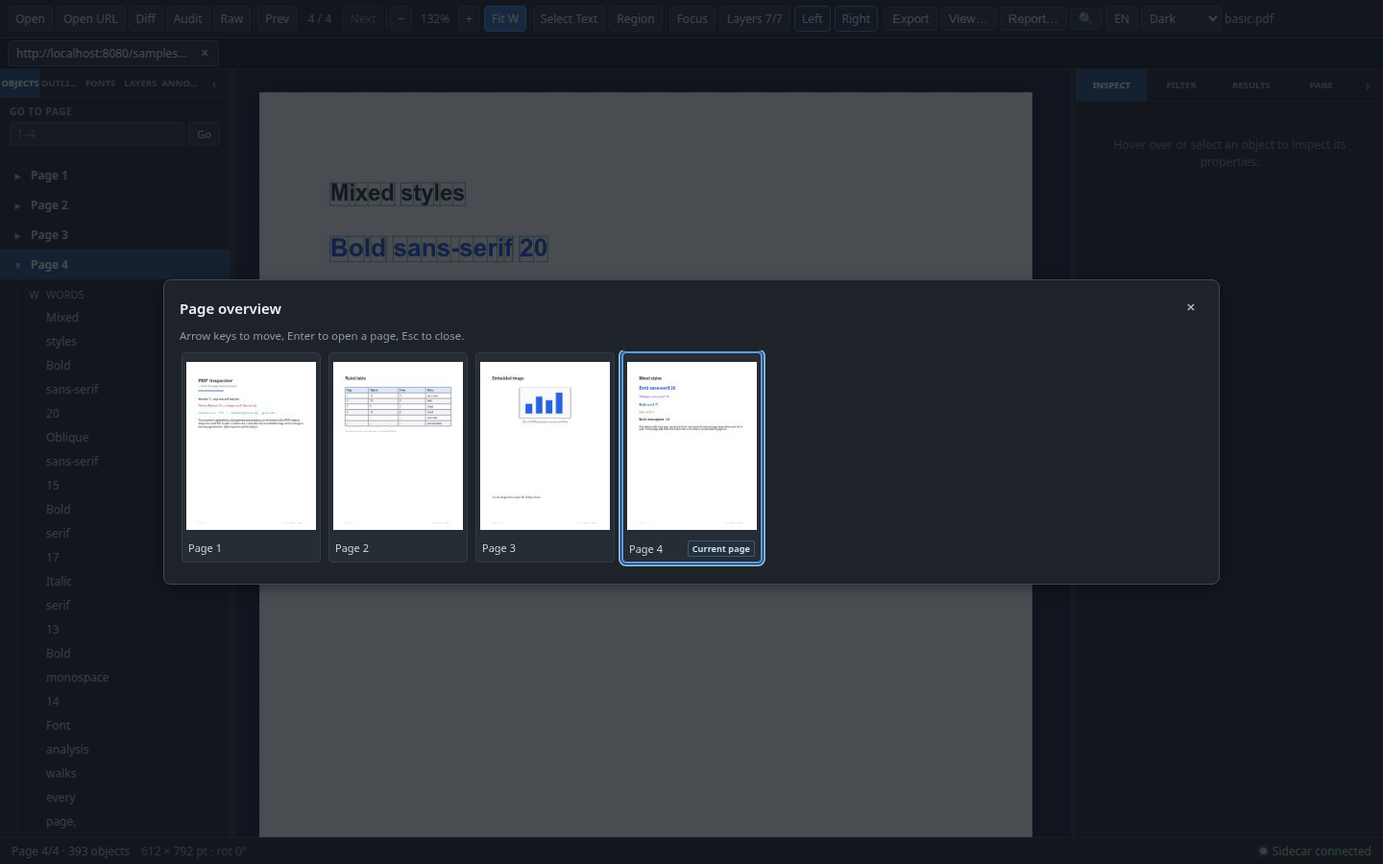
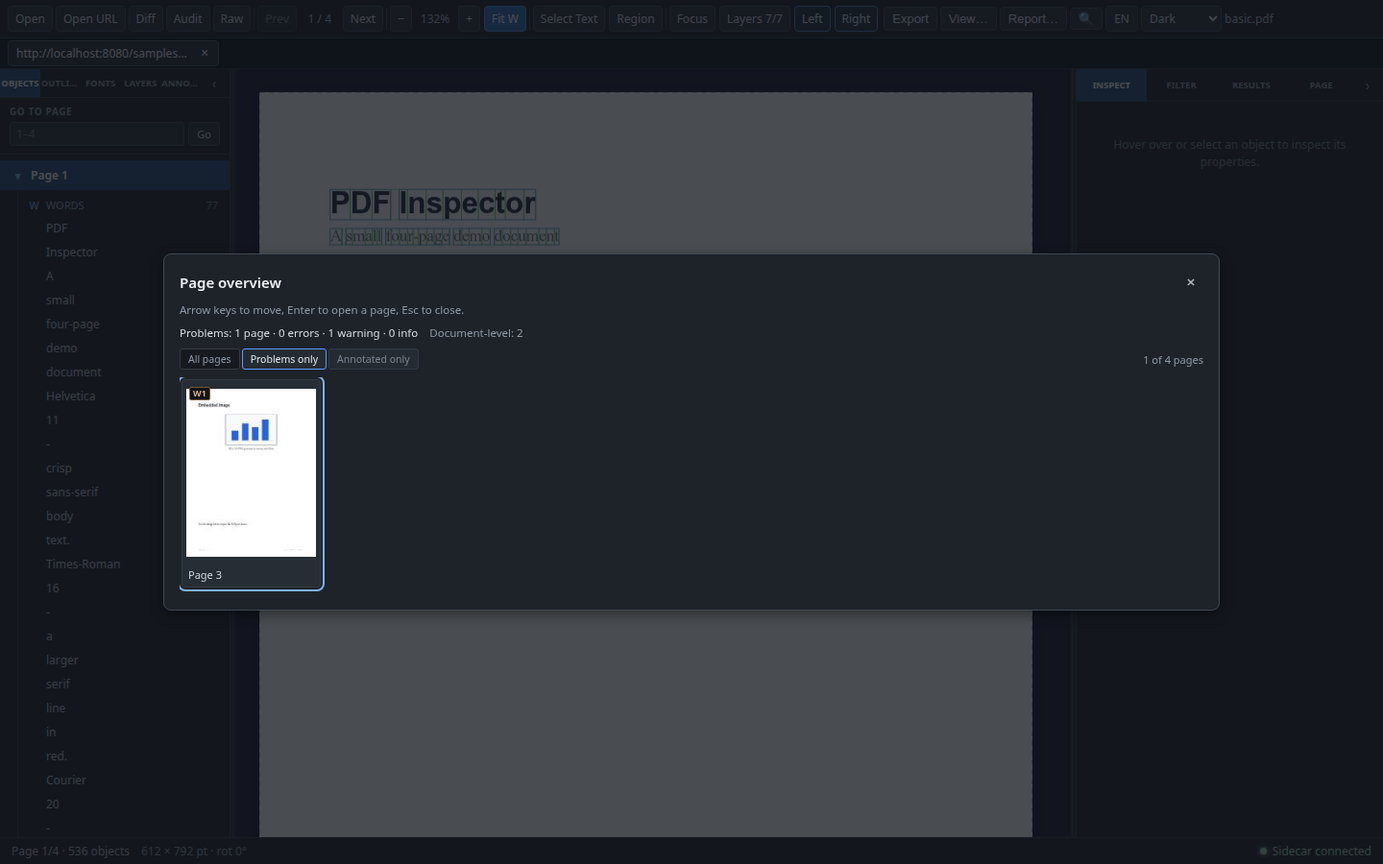
docs(viewer): document page markers and problem navigation
Document the page map badges, page/document summaries, All/Problems/Annotated filters, Pages with problems command, data sources and file matching, no-auto-analysis behavior and read-only boundaries in both README languages and the large-document notes, with a real Problems-only screenshot.

diff --git a/README.md b/README.md
@@ -48,7 +48,7 @@ PDF Inspector is a developer-focused PDF structure viewer. It overlays coordinat
 | ![Desktop document tabs: two URL-opened tabs, switched back to basic.pdf with toolbar 1 / 4](docs/images/large-doc-tabs.png) | **Desktop document tabs**<br>The desktop app keeps multiple document tabs and restores page, zoom, overlays, and panel tabs when switching. Web tabs activate a server-side `documentId` instead. |
 | ![Web document tabs: basic.pdf and large.pdf tabs, active large.pdf showing 1 / 120](docs/images/web-tabs.png) | **Web document tabs**<br>Web and desktop both show the document tab bar. Switching activates by `documentId` and restores the view snapshot; inactive documents remain readable at `/doc/:id`, and closing a tab removes only that document's temporary copy. |
 | ![Recent documents dialog: grouped Web document rows with Open and Remove, the restore-last-session toggle, Clear recent, and Close](docs/images/session-recent.png) | **Session restore and recent documents**<br>The empty state reopens a recent document or restores the last session, and `File: Recent documents…` lists local, URL, and Web documents grouped by kind. Only locators and view snapshots are stored under `pdf-inspector:session:v1` / `pdf-inspector:recent:v1`; PDF content and analysis results never are. |
-| ![Page overview: a thumbnail grid of the 4-page basic.pdf with page 4 highlighted and centered](docs/images/page-overview.png) | **Page overview**<br>Click the toolbar page counter (`1 / 4`), press `P`, or run `Navigate: Page overview…` to open a modal grid of page thumbnails. The current page is highlighted and auto-centered; click a card or press `Enter` to jump and close, while `Esc`, the backdrop, and the close button cancel. Thumbnails render lazily (at most 2 at a time, 60 cached per document); cards release their image when scrolled well outside the viewport and re-request it on return, so a 1000-page document opens immediately and does not retain every visited page. |
+| ![Page overview: the Problems only filter selected, one Page 3 card with a W1 warning badge, and the summary Problems: 1 page · 0 errors · 1 warning · 0 info, Document-level: 2, 1 of 4 pages](docs/images/page-overview.png) | **Page overview**<br>Click the toolbar page counter (`1 / 4`), press `P`, or run `Navigate: Page overview…` to open a modal grid of page thumbnails. The current page is highlighted and auto-centered; click a card or press `Enter` to jump and close, while `Esc`, the backdrop, and the close button cancel. Thumbnails render lazily (at most 2 at a time, 60 cached per document); cards release their image when scrolled well outside the viewport and re-request it on return, so a 1000-page document opens immediately and does not retain every visited page. When the current file already has an audit report and/or a whole-document annotation index, each card also shows compact markers (`E`/`W`/`I` audit findings, `A` annotations, `!` link/form issues), the header summarizes them, and `All pages` / `Problems only` / `Annotated only` filter the grid; `Navigate: Pages with problems…` opens the same dialog on `Problems only`. The overview never starts an analysis, only shows analyses that belong to the open file, and is read-only. |
 
 *Screenshots come from the Web build and a real Electron desktop build. Page list / Search 2.0 / command palette, annotation index/export, themes, export dialogs, Chinese UI, page overview, Diff/Audit/Raw, Audit Resources, Audit Structure, and session restore/recent documents are 1440×900. Desktop tabs were captured from Electron + `xvfb` through CDP at a 1440×900 viewport. See [docs/export.md](docs/export.md), [docs/themes-i18n.md](docs/themes-i18n.md), [docs/search.md](docs/search.md), [docs/large-docs.md](docs/large-docs.md), [docs/annotations.md](docs/annotations.md), and [docs/session.md](docs/session.md).*
 
@@ -68,7 +68,8 @@ PDF Inspector is a developer-focused PDF structure viewer. It overlays coordinat
 - The `Outline` tab reads PDF bookmarks and jumps to a page when an entry is clicked.
 - Current-page display, previous/next navigation, and a live zoom indicator.
 - **Page overview:** click the toolbar page counter (`1 / 4`), press `P`, or run `Navigate: Page overview…` to open a modal thumbnail grid. The current page is highlighted and auto-centered; clicking a card or pressing `Enter` jumps there and closes the dialog, `Esc` / backdrop / the close button cancel, arrow keys move focus (up/down by the grid's column count), `Home` / `End` jump to the first/last card, `Tab` stays inside the dialog, and focus returns to the opener on close. While it is open, the background `T` / `R` / `F` / `Esc` / `Ctrl+F` shortcuts stay inactive; `P` still toggles it, and `Ctrl/Cmd+P` is left to the browser.
-- **Lazy page thumbnails:** the renderer draws each page with PDF.js into an offscreen canvas (160×220 CSS `contain`, device pixel ratio capped at 2, JPEG quality 0.82), at most two renders at a time, with a per-document LRU of 60 images and a fresh cache per document. Only cards near the viewport request an image, plus a seed around the current page, so a 1000-page document shows thumbnails immediately without pre-rendering it: 1000 cards are present, about 27 images load after opening and about 57 after scrolling to page ~170. The overview is read-only — no overlay boxes, annotations, or audit markers, nothing is persisted, no sidecar page extraction, and the PDF is never modified. A failed thumbnail shows a placeholder and the card still navigates.
+- **Lazy page thumbnails:** the renderer draws each page with PDF.js into an offscreen canvas (160×220 CSS `contain`, device pixel ratio capped at 2, JPEG quality 0.82), at most two renders at a time, with a per-document LRU of 60 images and a fresh cache per document. Only cards near the viewport request an image, plus a seed around the current page, so a 1000-page document shows thumbnails immediately without pre-rendering it: 1000 cards are present, about 27 images load after opening and about 57 after scrolling to page ~170. The overview is read-only — no object or annotation box is drawn over a thumbnail, no finding is edited or waived from a card, nothing is persisted, no sidecar page extraction, and the PDF is never modified. A failed thumbnail shows a placeholder and the card still navigates.
+- **Page markers and problem navigation:** when the current file already has an audit report and/or a whole-document annotation index, the overview also works as a document map. Each card gets compact badges — `E1` / `W1` / `I1` for audit errors / warnings / info, `A3` for annotations, `!1` for unresolved or unsafe link and form issues. Each badge keeps a `title` and is hidden from assistive technology (`aria-hidden`), while the card's accessible name carries the page label plus every non-zero count, so a marker is never conveyed by colour alone. The header summarizes them (`Problems: 1 page · 0 errors · 1 warning · 0 info`, `Document-level: 2`, `Annotations: N pages · N marks · N issues`), and `All pages` / `Problems only` / `Annotated only` filter the grid; `Navigate: Pages with problems…` opens it already on `Problems only` (and is disabled while no page has a problem), while `P` and the page counter still open every page. A filter with no data is disabled, an empty result says so, and findings without a page stay in `Document-level` instead of landing on page 1. Markers are a view of analyses that already ran: the overview never starts an audit or an index, it shows `Run Audit to mark pages.` when there is no report, it drops a report or index produced for another file, and the badges and summary update in place when an analysis finishes, without closing the dialog.
 
 ### Workspace and layout
 
@@ -122,7 +123,7 @@ PDF Inspector is a developer-focused PDF structure viewer. It overlays coordinat
 ### Command palette
 
 - `Ctrl/Cmd+K` opens a command palette grouped by `File` / `Navigate` / `View` / `Analyze` / `Export`. It focuses the filter input on open; type a title or keyword (for example `page`) to filter. `↑/↓` moves, `Enter` runs, and `Escape` closes.
-- Commands cover Open PDF, Open URL, Search document, Go to page, Page overview, the four themes plus Cycle theme, Language: English / 简体中文, Focus mode, left/right panels, Layers, Diff, Audit, Raw, Export objects, Export view, Share report, Clear selection, and Close palette. `Go to page…` switches to a page-number subview that clamps input to `1..pageCount`.
+- Commands cover Open PDF, Open URL, Search document, Go to page, Page overview, Pages with problems, the four themes plus Cycle theme, Language: English / 简体中文, Focus mode, left/right panels, Layers, Diff, Audit, Raw, Export objects, Export view, Share report, Clear selection, and Close palette. `Go to page…` switches to a page-number subview that clamps input to `1..pageCount`; `Pages with problems…` opens the page overview filtered to pages that already carry a finding or annotation issue.
 - Commands are registered by the components that own the handler. The palette only calls existing handlers and stores, so there is no duplicated IPC, file-open, or export logic. Document-dependent commands are shown disabled when no document or workspace permits them.
 - Registration is explicit: there are no user-defined commands, plugins, or shortcut editor. `Ctrl/Cmd+F` still opens search directly; `Ctrl/Cmd+K` only handles the command palette.
 
@@ -321,7 +322,7 @@ python sidecar/cli.py diff old.pdf new.pdf --fail-on modified \
 | `T` | Toggle text-selection mode |
 | `R` | Toggle region-selection mode (mutually exclusive with text selection) |
 | `F` | Toggle Focus mode (hide both side panels) |
-| `P` | Open or close the page overview (thumbnail grid); `Ctrl/Cmd+P` remains the browser print shortcut |
+| `P` | Open or close the page overview (thumbnail grid) on all pages; `Ctrl/Cmd+P` remains the browser print shortcut |
 | `Ctrl/Cmd+F` | Open and focus in-document search |
 | `Enter` / `Shift+Enter` | In the search box, jump to the next / previous hit |
 | `↑` / `↓` | Move the current item in the search-results panel or command palette |

diff --git a/README.zh-CN.md b/README.zh-CN.md
@@ -46,7 +46,7 @@
 | ![桌面文档标签栏：两个通过 URL 打开的文档标签，切换到 basic.pdf 后工具栏显示 1 / 4](docs/images/large-doc-tabs.png) | **桌面文档标签**<br>桌面端可同时保留多个文档标签，切换时恢复页码、缩放、叠加层与面板标签；Web 端通过服务端 `documentId` 激活标签。 |
 | ![Web 文档标签栏：basic.pdf 与 large.pdf 两个标签，当前 large.pdf 显示 1 / 120](docs/images/web-tabs.png) | **Web 文档标签**<br>Web 与桌面端都显示文档标签栏；切换按 `documentId` 激活并恢复视图快照，未激活文档的 `/doc/:id` 仍可读取，关闭标签只删除该文档的临时副本。 |
 | ![最近文档对话框：按类型分组的 Web 文档行、Open/Remove 按钮、恢复上次会话开关、清空最近记录与关闭](docs/images/session-recent.png) | **会话恢复与最近文件**<br>空状态可重新打开最近文档或恢复上次会话，`File: Recent documents…` 按本地/URL/Web 分组列出最近文档。只把定位信息与视图快照存入 `pdf-inspector:session:v1` / `pdf-inspector:recent:v1`，不保存 PDF 内容与分析结果。 |
-| ![页面总览：4 页 basic.pdf 的缩略图网格，第 4 页高亮并居中](docs/images/page-overview.png) | **页面总览**<br>点击工具栏页码（`1 / 4`）、按 `P`，或在命令面板执行 `Navigate: Page overview…`，打开缩略图网格模态框。当前页高亮并自动居中；点击卡片或按 `Enter` 跳页并关闭，`Esc`、遮罩与关闭按钮取消。缩略图最多 2 个并发渲染、每份文档缓存 60 张；卡片滚出视口较远后释放图片，返回时重新请求，因此 1000 页文档也能立即打开，且不会保留所有访问过的页面。 |
+| ![页面总览：选中“仅问题页”筛选，只有一张第 3 页卡片带 W1 警告徽标，顶部显示问题：1 页 · 0 个错误 · 1 个警告 · 0 个提示、文档级：2 与 1 / 4 页](docs/images/page-overview.png) | **页面总览**<br>点击工具栏页码（`1 / 4`）、按 `P`，或在命令面板执行 `Navigate: Page overview…`，打开缩略图网格模态框。当前页高亮并自动居中；点击卡片或按 `Enter` 跳页并关闭，`Esc`、遮罩与关闭按钮取消。缩略图最多 2 个并发渲染、每份文档缓存 60 张；卡片滚出视口较远后释放图片，返回时重新请求，因此 1000 页文档也能立即打开，且不会保留所有访问过的页面。当前文件已有审计报告或整档注释索引时，卡片还会显示紧凑标记（`E`/`W`/`I` 审计发现、`A` 注释、`!` 链接/表单问题），顶部给出汇总，`全部页面` / `仅问题页` / `仅有注释页` 可筛选网格；`Navigate: Pages with problems…` 直接以 `仅问题页` 打开同一对话框。总览不会启动任何分析，只显示属于当前文件的结果，且为只读。 |
 
 *截图来自 Web 构建与真实 Electron 桌面构建；页面列表/搜索 2.0/命令面板、注释整档索引/导出、主题、导出对话框、中文界面、页面总览、Diff/Audit/Raw、Audit Resources、Audit Structure 与会话恢复/最近文档为 1440×900，桌面标签为 Electron + xvfb 实测（CDP 1440×900 视口）。详见 [docs/export.md](docs/export.md)、[docs/themes-i18n.md](docs/themes-i18n.md)、[docs/search.md](docs/search.md)、[docs/large-docs.md](docs/large-docs.md)、[docs/annotations.md](docs/annotations.md) 与 [docs/session.md](docs/session.md)。*
 
@@ -66,7 +66,8 @@
 - `Outline` 标签页读取 PDF 书签（outline），点击条目直接跳转到对应页面。
 - 当前页码显示与上一页/下一页导航，并实时显示缩放比例。
 - **页面总览：** 点击工具栏页码按钮（`1 / 4`）、按 `P`，或在命令面板执行 `Navigate: Page overview…`，打开缩略图网格模态框。当前页高亮并自动居中；点击卡片或按 `Enter` 跳页并关闭，`Esc`、遮罩与关闭按钮取消；方向键移动焦点（上下按网格列数），`Home` / `End` 到首/末页，`Tab` 限制在对话框内，关闭后焦点回到打开前的元素。打开期间背景的 `T` / `R` / `F` / `Esc` / `Ctrl+F` 快捷键不生效；`P` 仍可关闭，`Ctrl/Cmd+P` 保留给浏览器。
-- **懒加载缩略图：** 渲染进程用 PDF.js 把每页画到离屏 canvas（160×220 CSS `contain`，设备像素比上限 2，JPEG 质量 0.82），最多 2 个并发渲染，每份文档一个 60 张的 LRU 缓存，切换文档即失效。只有视口附近的卡片才请求图片，并在打开时围绕当前页预置种子，因此 1000 页文档无需预渲染即可显示缩略图：1000 张卡片，打开后约 27 张图片，滚动到第 170 页附近后约 57 张；卡片滚出视口较远后释放图片，返回时再从缓存或重新渲染获取，避免整份文档的已访问页面都被保留。总览只读：不叠加对象框、注释或审计标记，不持久化，不做 sidecar 页面提取，也不修改 PDF；缩略图失败显示占位，卡片仍可点击跳页。
+- **懒加载缩略图：** 渲染进程用 PDF.js 把每页画到离屏 canvas（160×220 CSS `contain`，设备像素比上限 2，JPEG 质量 0.82），最多 2 个并发渲染，每份文档一个 60 张的 LRU 缓存，切换文档即失效。只有视口附近的卡片才请求图片，并在打开时围绕当前页预置种子，因此 1000 页文档无需预渲染即可显示缩略图：1000 张卡片，打开后约 27 张图片，滚动到第 170 页附近后约 57 张；卡片滚出视口较远后释放图片，返回时再从缓存或重新渲染获取，避免整份文档的已访问页面都被保留。总览只读：缩略图上不叠加对象框或注释框，也不能在卡片上编辑/忽略/豁免发现，不持久化，不做 sidecar 页面提取，也不修改 PDF；缩略图失败显示占位，卡片仍可点击跳页。
+- **页面标记与问题导航：** 当前文件已有审计报告或整档注释索引时，总览同时是一张“文档地图”。每张卡片显示紧凑徽标：审计 `E1` / `W1` / `I1`（只显示非零级别）、注释 `A3`、未解析或不安全链接与表单问题 `!1`；每个徽标保留 `title` 并对辅助技术隐藏（`aria-hidden`），计数统一由卡片的可访问名称给出（页码 + 全部非零计数），因此标记不只靠颜色表达。顶部按页汇总 `Problems: 1 page · 0 errors · 1 warning · 0 info`（中文界面为 `问题：1 页 · 0 个错误 · 1 个警告 · 0 个提示`），文档级发现单独显示 `Document-level: 2`（`文档级：2`），有索引时再显示 `Annotations: N pages · N marks · N issues`（`注释：…`）。`全部页面` / `仅问题页` / `仅有注释页` 只筛选当前网格，没有对应数据的选项禁用，结果为空时给出明确提示，筛选后右侧显示 `1 / 4 页`。命令面板的 `Navigate: Pages with problems…`（中文 `仅看问题页…`）以 `仅问题页` 打开同一对话框，没有问题时禁用；`P`、工具栏页码与 `Navigate: Page overview…` 仍打开全部页面，关闭后筛选复位。标记只是已有分析的视图：不会自动运行审计或建立整档索引，没有报告时提示 `Run Audit to mark pages.`（`运行 Audit 后可在页面显示标记。`），属于其他文件的报告/索引直接丢弃，分析完成后徽标与汇总会在原位置更新，对话框保持打开。
 
 ### 工作区与布局
 
@@ -120,7 +121,7 @@
 ### 命令面板
 
 - `Ctrl/Cmd+K` 打开命令面板，按 `File` / `Navigate` / `View` / `Analyze` / `Export` 分组显示已注册命令；打开时自动聚焦过滤框，输入标题或关键词（例如 `page`）即可过滤，`↑/↓` 移动、`Enter` 执行、`Escape` 关闭。
-- 命令覆盖 Open PDF、Open URL、Search document、Go to page、Page overview、四个主题与 Cycle theme、Language: English / 简体中文、Focus mode、左右面板、Layers、Diff、Audit、Raw、Export objects、Export view、Share report、Clear selection 与 Close palette；`Go to page…` 会进入页码子视图，输入值夹取到 `1..pageCount`。
+- 命令覆盖 Open PDF、Open URL、Search document、Go to page、Page overview、Pages with problems、四个主题与 Cycle theme、Language: English / 简体中文、Focus mode、左右面板、Layers、Diff、Audit、Raw、Export objects、Export view、Share report、Clear selection 与 Close palette；`Go to page…` 会进入页码子视图，输入值夹取到 `1..pageCount`；`Pages with problems…`（`仅看问题页…`）按已有发现或注释问题筛选页面总览。
 - 命令由实际持有 handler 的组件按 owner 注册，面板只调用现有 handler/store，不复制 IPC 或文件打开/导出逻辑；无文档或当前工作区不允许时，依赖文档的命令显示为禁用。
 - 命令注册是显式的，不提供用户自定义命令、插件系统或快捷键编辑器；`Ctrl/Cmd+F` 仍直接打开搜索，`Ctrl/Cmd+K` 只负责命令面板。
 
@@ -315,7 +316,7 @@ python sidecar/cli.py diff old.pdf new.pdf --fail-on modified \
 | `T` | 切换文本选择模式 |
 | `R` | 切换区域框选模式（与文本选择互斥） |
 | `F` | 切换 Focus 模式（隐藏左右面板） |
-| `P` | 打开或关闭页面总览（缩略图网格）；`Ctrl/Cmd+P` 仍为浏览器打印快捷键 |
+| `P` | 打开或关闭页面总览（缩略图网格，始终为全部页面）；`Ctrl/Cmd+P` 仍为浏览器打印快捷键 |
 | `Ctrl/Cmd+F` | 打开并聚焦当前文档搜索 |
 | `Enter` / `Shift+Enter` | 搜索框内跳到下一处 / 上一处命中 |
 | `↑` / `↓` | 搜索结果面板或命令面板中移动当前项 |

diff --git a/docs/large-docs.md b/docs/large-docs.md
@@ -81,13 +81,14 @@ SidecarPool
 
 ## 页面总览与缩略图
 
-页面总览是一个独立模态框（不是第六个左栏标签），用于在几十到上千页的文档里靠缩略图定位页面。左栏仍是 Objects / Outline / Fonts / Layers / Annots 五个标签。
+页面总览是一个独立模态框（不是第六个左栏标签），用于在几十到上千页的文档里靠缩略图定位页面。左栏仍是 Objects / Outline / Fonts / Layers / Annots 五个标签。当当前文件已有审计报告或整档注释索引时，同一个网格还会显示每页标记，成为一张“文档地图”：既能定位页面，也能直接看到问题分布（见下方“标记与筛选”）。
 
 **入口：**
 
 - 点击工具栏页码按钮 `1 / 4`（无文档时禁用，`title` 为“打开页面总览 (P)”）；
 - 按 `P`（焦点在 `input` / `textarea` / `select` 或 `contenteditable` 内时不触发；`Ctrl/Cmd+P` 保留给浏览器打印）；
-- 命令面板 `Navigate: Page overview…`（分组 `Navigate`，关键词 `pages` / `thumbnails` / `overview`）。
+- 命令面板 `Navigate: Page overview…`（分组 `Navigate`，关键词 `pages` / `thumbnails` / `overview`）；
+- 命令面板 `Navigate: Pages with problems…`（`仅看问题页…`）：打开同一对话框并预设 `Problems only`；当前文件没有页级问题时禁用。
 
 **交互：**
 
@@ -105,26 +106,38 @@ SidecarPool
 - 只为视口附近的卡片请求渲染：单个 IntersectionObserver（`root` 为滚动容器，`rootMargin: 300px`）把进入范围的页标记为可见；打开时再围绕当前页预置种子（前 2 页、后 5 页，当前页为第 1 页时即 1–6 共 6 张），避免 1000 格网格首帧全是占位。
 - 打开总览不取消、也不阻塞当前页的 `extract_page`；关闭后页码、缩放与滚动位置都不变。
 
+**标记与筛选（文档地图）：**
+
+- **数据来源：** 只使用当前文件的审计报告（`audit-store.filePath === pdf-store.filePath`）与整档注释索引（`status === 'ready'` 且 `documentKey === annotationDocumentKey(filePath, sourceUrl)`）；不匹配的报告/索引直接丢弃，切换文档后旧标记不会画到新页面上。
+- **聚合：** `src/renderer/services/page-markers.ts` 的 `buildPageMarkers()` 对同一份 `AuditReport` + `AnnotationIndexResult` 单次遍历，得到每页计数、文档级计数与 `problemPages` / `annotatedPages`；纯函数、无 React/Zustand、不修改输入，1000 页仍是线性开销，只在打开总览或报告/索引变化时重算。
+- **卡片徽标：** 审计 `E1` / `W1` / `I1`（只显示非零级别）、注释 `A3`、链接/表单问题 `!1`；徽标绝对定位在缩略图框内，不改变卡片尺寸；徽标保留 `title` 并设为 `aria-hidden`（避免与卡片名称重复朗读），计数统一由卡片的可访问名称给出（页码 + 全部非零计数），不只靠颜色。`external` 链接属于信息，不算问题。
+- **头部汇总：** 有报告且有页级发现时显示 `Problems: 1 page · 0 errors · 1 warning · 0 info`（只统计页级发现），文档级发现非零时显示 `Document-level: 2`；有索引时显示 `Annotations: N pages · N marks · N issues`；筛选后右侧显示 `1 of 4 pages`。中文界面分别为 `问题：…`、`文档级：…`、`注释：…` 与 `1 / 4 页`。
+- **文档级发现：** `page: null` 的发现只进入 `Document-level` 汇总，不会落到第 1 页；只有文档级发现时既不显示 `Problems` 行，也不会让“仅看问题页”命令变为可用。
+- **筛选：** `All pages` / `Problems only` / `Annotated only`（`全部页面` / `仅问题页` / `仅有注释页`）只影响当前网格，不写 localStorage；`Problems only` 包含任一页级审计发现与注释问题（unresolved/unsafe link、form issue），`Annotated only` 只要有注释即可。没有对应数据的选项禁用；结果为空时显示 `No pages with problems.` / `No annotated pages.`（`没有带问题的页面。` / `没有带注释的页面。`），不会只留一片空白；方向键与 `Home` / `End` 在筛选后的列表内移动，不会跳到被隐藏的页。
+- **命令入口：** 命令面板 `Navigate: Pages with problems…`（`仅看问题页…`）以 `Problems only` 打开同一对话框；没有任何问题页时禁用。`P`、工具栏页码与 `Navigate: Page overview…` 始终打开全部页面，关闭时筛选复位为 `all`，重开不残留上次选择。
+- **不自动分析：** 总览从不启动审计或整档注释索引。没有审计报告时头部显示 `Run Audit to mark pages.`（`运行 Audit 后可在页面显示标记。`），不提供“建索引”按钮；没有索引时不显示注释计数。审计或索引在总览打开期间完成时，徽标与汇总在原位置更新，对话框保持打开。
+- **只读：** 不能在卡片上编辑、忽略或豁免发现，不打开链接、不填表单、不改变当前页/缩放/选择；标记不持久化，也不写入 PDF 或 sidecar。
+
 **1000 页实测（`web-samples/huge.pdf`）：** 打开总览后 DOM 中有 1000 张卡片，但只请求约 27 张图片；滚动到第 170 页附近后累计约 57 张，滚动与跳页没有卡死。
 
 **只读边界：**
 
-- 缩略图里不叠加对象框、注释或审计/差异标记。
-- 不写 localStorage（总览开关不持久化，刷新后关闭），不改 PDF，不发网络请求，不做 sidecar 页面提取（缩略图完全在渲染进程生成），也不生成临时文件。
+- 缩略图本身不叠加对象框或注释框，只在卡片框内显示审计/注释标记徽标（见上）；Diff 结果不出现在总览。
+- 不写 localStorage（总览开关与筛选都不持久化，刷新后关闭），不改 PDF，不发网络请求，不做 sidecar 页面提取（缩略图完全在渲染进程生成），也不生成临时文件。
 - 缩略图失败只在该卡片显示占位与“缩略图不可用”，卡片仍保留页码并可点击跳页；错误不冒泡成全局错误。
 
 **布局：** 对话框宽 `min(1100px, 100vw - 48px)`、`max-height: 85vh`，网格为 `repeat(auto-fill, minmax(132px, 1fr))`，颜色全部走 `--pi-*` token，适配 Dark / Islands / Light / System；1280 / 1440 / 1600 实测无横向溢出。
 
-![页面总览：basic.pdf 共 4 页，第 4 页高亮并居中](images/page-overview.png)
+![页面总览：选中“仅问题页”，只有一张第 3 页卡片带 W1 警告徽标](images/page-overview.png)
 
-*截图来自真实 Web 构建（1440×900）：打开 4 页的 `basic.pdf`，当前页为第 4 页。*
+*截图来自真实 Web 构建（1440×900）：打开 4 页的 `basic.pdf`，运行 Audit 后打开总览并切到“仅问题页”；顶部为 `Problems: 1 page · 0 errors · 1 warning · 0 info` 与 `Document-level: 2`，网格只剩第 3 页一张卡片（`W1`），右侧显示 `1 of 4 pages`。*
 
 **已知限制：**
 
 - **不是虚拟列表：** 1000 页仍有 1000 个卡片 DOM，只靠 `content-visibility: auto` + `contain-intrinsic-size: auto 232px` 减少布局/绘制；更大规模若出现滚动卡顿，再评估真正的虚拟列表。
 - **不预渲染、不落盘：** 未滚动到的页面保持占位；缓存只在内存中，同一文档在本次会话内重新打开总览会命中缓存，但刷新/重启或切换文档后需要重新渲染。
 - **无重试 UI：** 失败卡片在本次打开期间不自动重试（装载器已移除 pending，重新打开会再次请求）；损坏页或加密页没有专用提示。
-- **缩略图是独立的轻量渲染：** 不携带 Inspector 的选中/筛选状态，也不反映 Diff 或 Audit 结果。
+- **缩略图是独立的轻量渲染：** 不携带 Inspector 的选中/筛选状态；审计/注释标记只在当前文件的报告/索引存在时叠加，Diff 结果不反映。
 
 ## 文档标签页（桌面与 Web）
 
